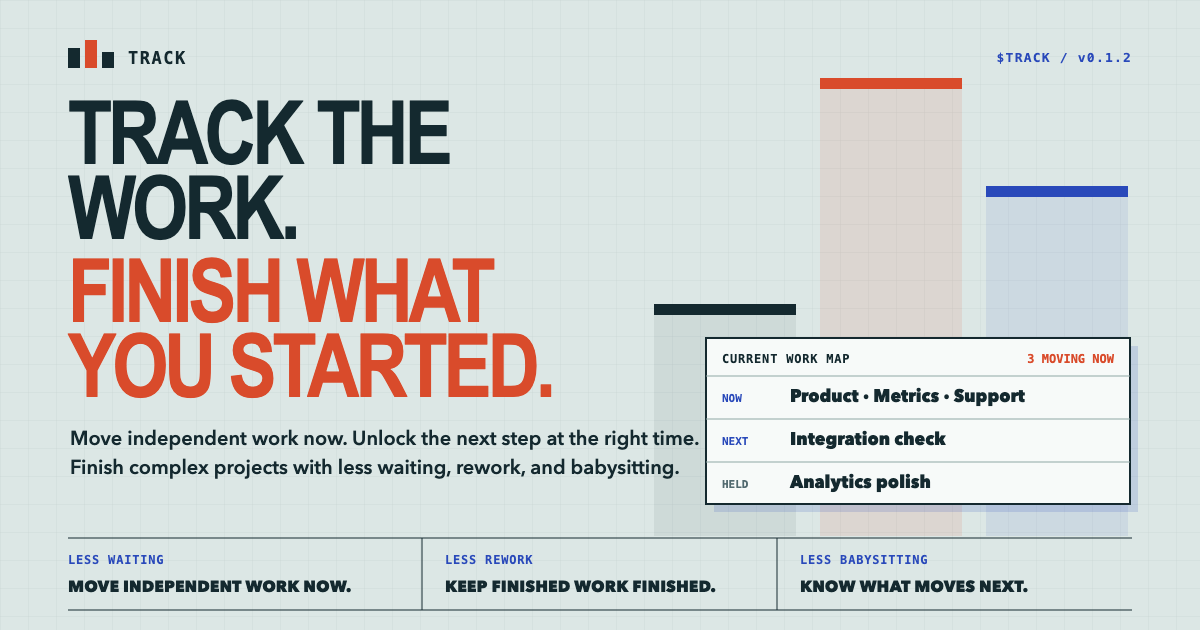
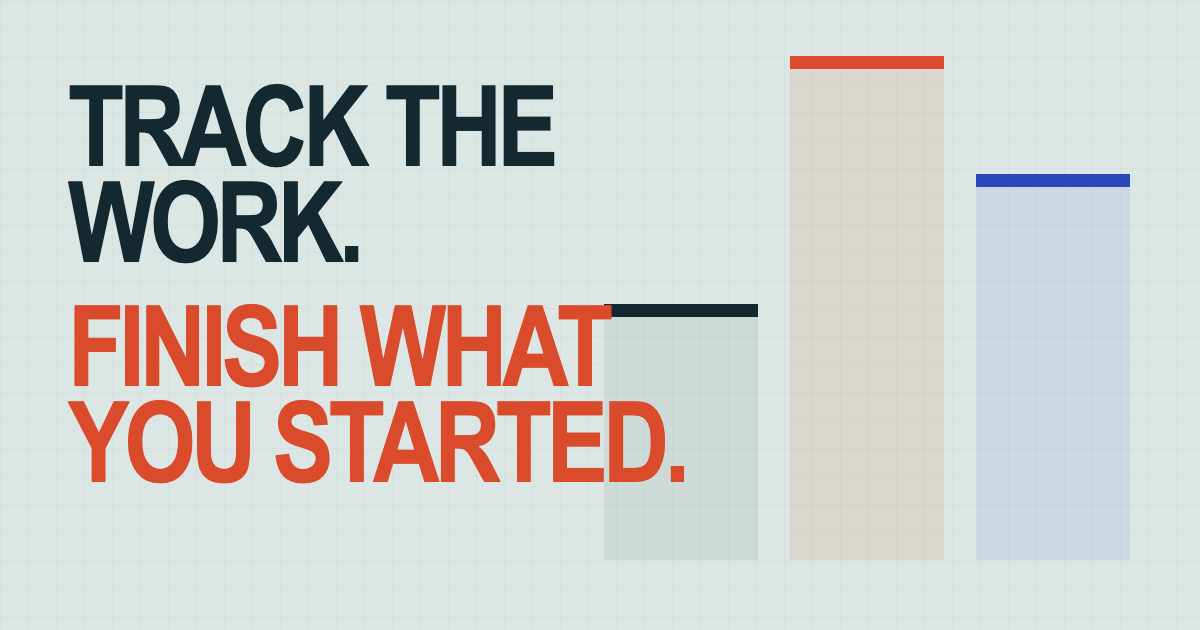
Simplify Track social preview

diff --git a/index.html b/index.html
@@ -458,7 +458,7 @@ sequenceDiagram
     </main>
 
     <footer>
-      <div class="shell"><span>Track / v0.1.2</span><span>Map the work. Track it to done.</span></div>
+      <div class="shell"><span>Track / v0.1.3</span><span>Map the work. Track it to done.</span></div>
     </footer>
 
     <script type="module">

diff --git a/README.md b/README.md
@@ -4,7 +4,7 @@ Track turns a complex development or research goal into one living work map.
 It keeps the goal stable while tasks, dependencies, tracks, and working
 sessions change around it.
 
-**Version:** 0.1.2
+**Version:** 0.1.3
 **Codex skill:** `$track`
 
 [Open the landing page](index.html) · [Read the skill instructions](SKILL.md)